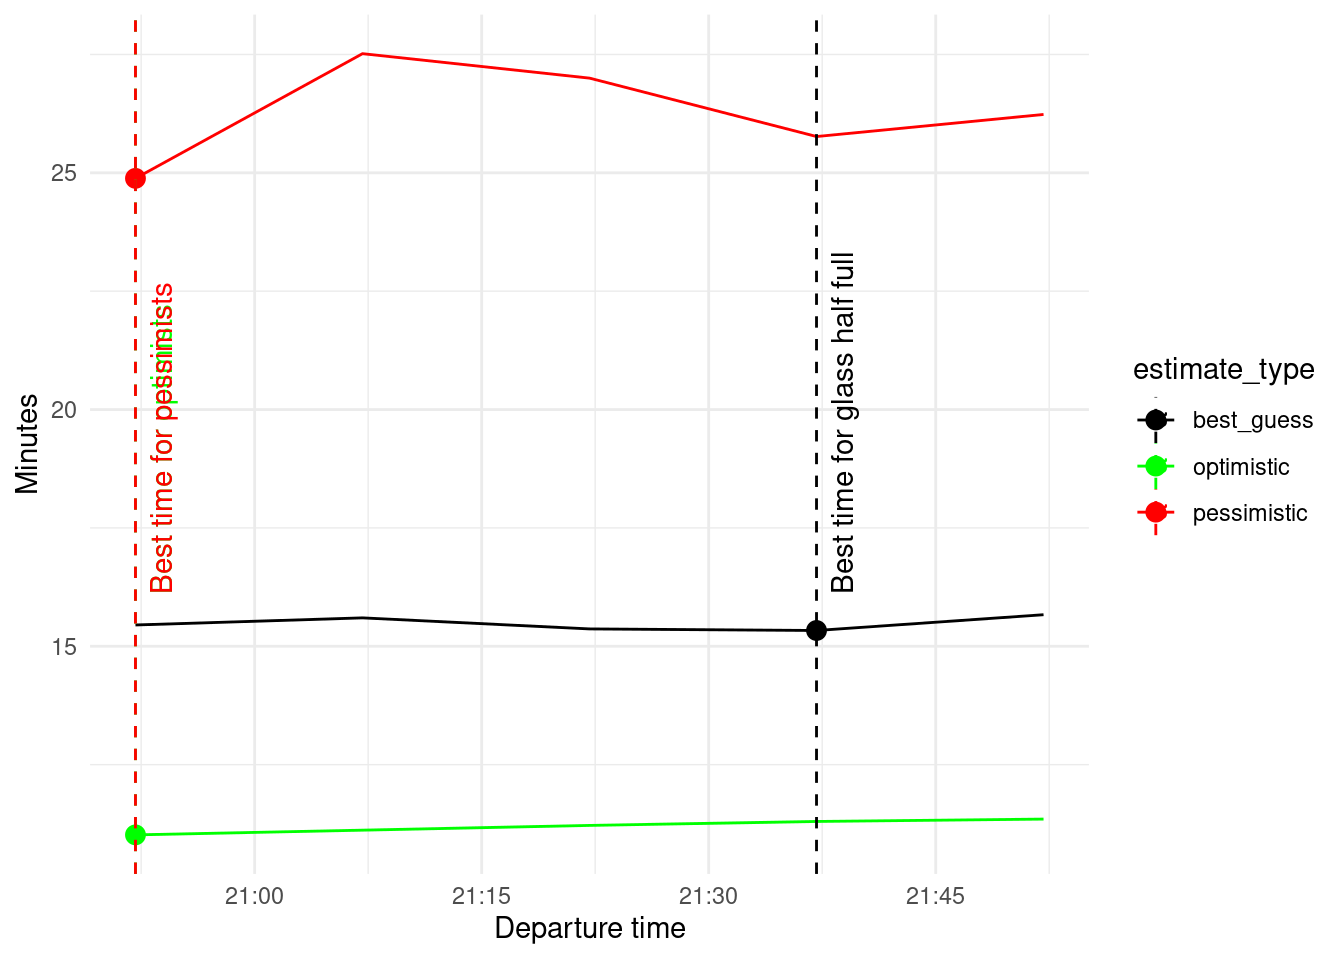
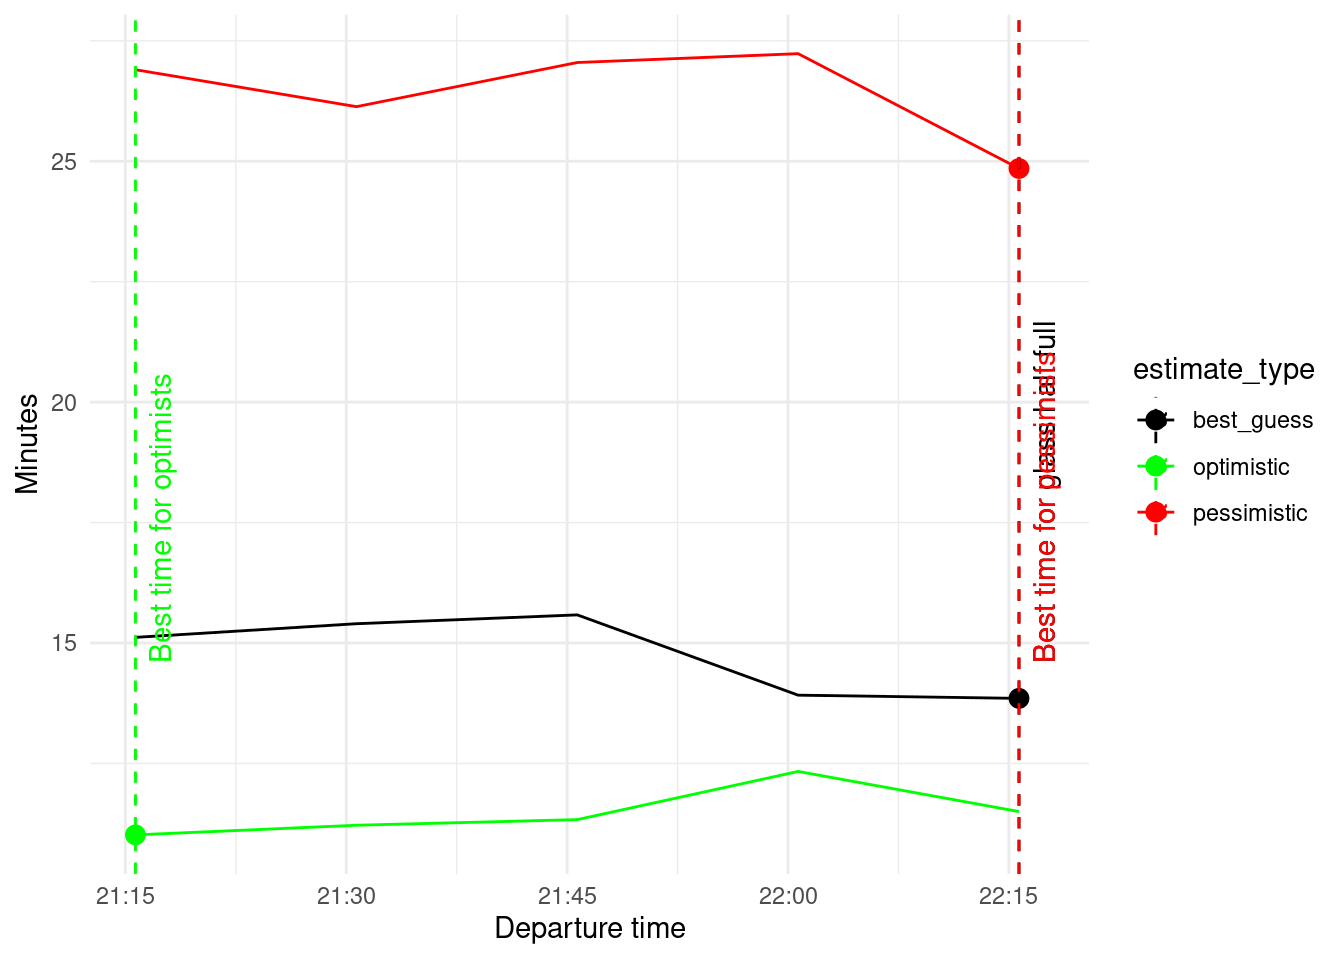
Updated report

diff --git a/drive_times_report.html b/drive_times_report.html
@@ -34,16 +34,6 @@ ul.task-list li input[type="checkbox"] {
 <script src="drive_times_report_files/libs/bootstrap/bootstrap.min.js"></script>
 <link href="drive_times_report_files/libs/bootstrap/bootstrap-icons.css" rel="stylesheet">
 <link href="drive_times_report_files/libs/bootstrap/bootstrap.min.css" rel="stylesheet" id="quarto-bootstrap" data-mode="light">
-<script src="drive_times_report_files/libs/htmlwidgets-1.6.2/htmlwidgets.js"></script>
-<link href="drive_times_report_files/libs/map-1.0.0/map_style.css" rel="stylesheet">
-<script src="drive_times_report_files/libs/map-1.0.0/map_events.js"></script>
-<script src="drive_times_report_files/libs/map-1.0.0/legend.js"></script>
-<script src="drive_times_report_files/libs/map-1.0.0/map_layers.js"></script>
-<script src="drive_times_report_files/libs/map-1.0.0/charts.js"></script>
-<script src="drive_times_report_files/libs/map-1.0.0/geolocation.js"></script>
-<script src="drive_times_report_files/libs/google_map-binding-2.7.6/google_map.js"></script>
-<script src="https://maps.googleapis.com/maps/api/js?key=AIzaSyCiRMLCPDvNoFGYgJE1GcxYOwFlSQtXEnI&amp;libraries=visualization,geometry,places,drawing"></script><script type="text/javascript" src="https://www.gstatic.com/charts/loader.js"></script>
-<script src="drive_times_report_files/libs/polylines-1.0.0/polylines.js"></script>
 
 
 </head>
@@ -84,15 +74,12 @@ ul.task-list li input[type="checkbox"] {
 <h2 class="anchored" data-anchor-id="route-information">Route Information</h2>
 <p><strong>Going From:</strong> 2221 University Ave SE, Minneapolis, MN</p>
 <p><strong>Going To:</strong> 1 Twins Way, Minneapolis, MN 55403</p>
-<p><strong>Earliest Departure:</strong> 2023-04-07 20:52:06</p>
+<p><strong>Earliest Departure:</strong> 2023-04-07 21:15:41</p>
 </section>
 <section id="route-map" class="level2">
 <h2 class="anchored" data-anchor-id="route-map">Route Map</h2>
 <div class="cell">
-<div class="cell-output-display">
-<div class="google_map html-widget html-fill-item-overflow-hidden html-fill-item" id="htmlwidget-4c7fe01781cecccff188" style="width:100%;height:464px;"></div>
-<script type="application/json" data-for="htmlwidget-4c7fe01781cecccff188">{"x":{"lat":-37.9,"lng":144.5,"zoom":8,"styles":null,"search_box":false,"update_map_view":true,"zoomControl":true,"mapType":"roadmap","mapTypeControl":true,"scaleControl":false,"streetViewControl":true,"rotateControl":true,"fullscreenControl":true,"event_return_type":"list","split_view":null,"split_view_options":{"heading":34,"pitch":10},"geolocation":false,"calls":[{"functions":"add_polylines","args":[[{"id":1,"geodesic":true,"stroke_colour":"#0000FF","stroke_weight":2,"stroke_opacity":0.6,"z_index":3,"polyline":["_doqG`t~wPDOnA|@J\\TRj@ZRHVD`@B`@K`@Qb@Wb@[lBoAj@WVI\\AvJAdEAdAGfAHXBd@Pb@TRPf@j@`@d@Rj@BJL\\~@pCXp@TBDL\\`At@nBr@nBvB~F|@hCl@fCd@pCRnBNxCBzC?bFAnM?~^CzFInCQdCWvB_@lC_A|D}CdK_@`B[rBQpBK`DB~BL|Bd@jGRvCBfBGrDK~AStDCfBBzAPhEFtADdDA|FAxF?vHAjDApB?nGENCXChBC|A?rBElAKp@O^QXUT[PgAPgAJw@@[BmC[yAOmBM{@Ta@RYTMFOF]`@]b@_@t@uChJiG`Su@zBIXwA|EsAhEKRyDtC_GjEwA`Am@l@W\\m@z@cAnAUPg@RSLkD??oA?uA@oAAkB?_AA}BGs@a@eC_@kAQ[oAyA{@qA_AiBs@eAMS"]}],true,"defaultLayerId",true,false,0,false]}]},"evals":[],"jsHooks":[]}</script>
-</div>
+
 </div>
 </section>
 <section id="driving-times" class="level2">
